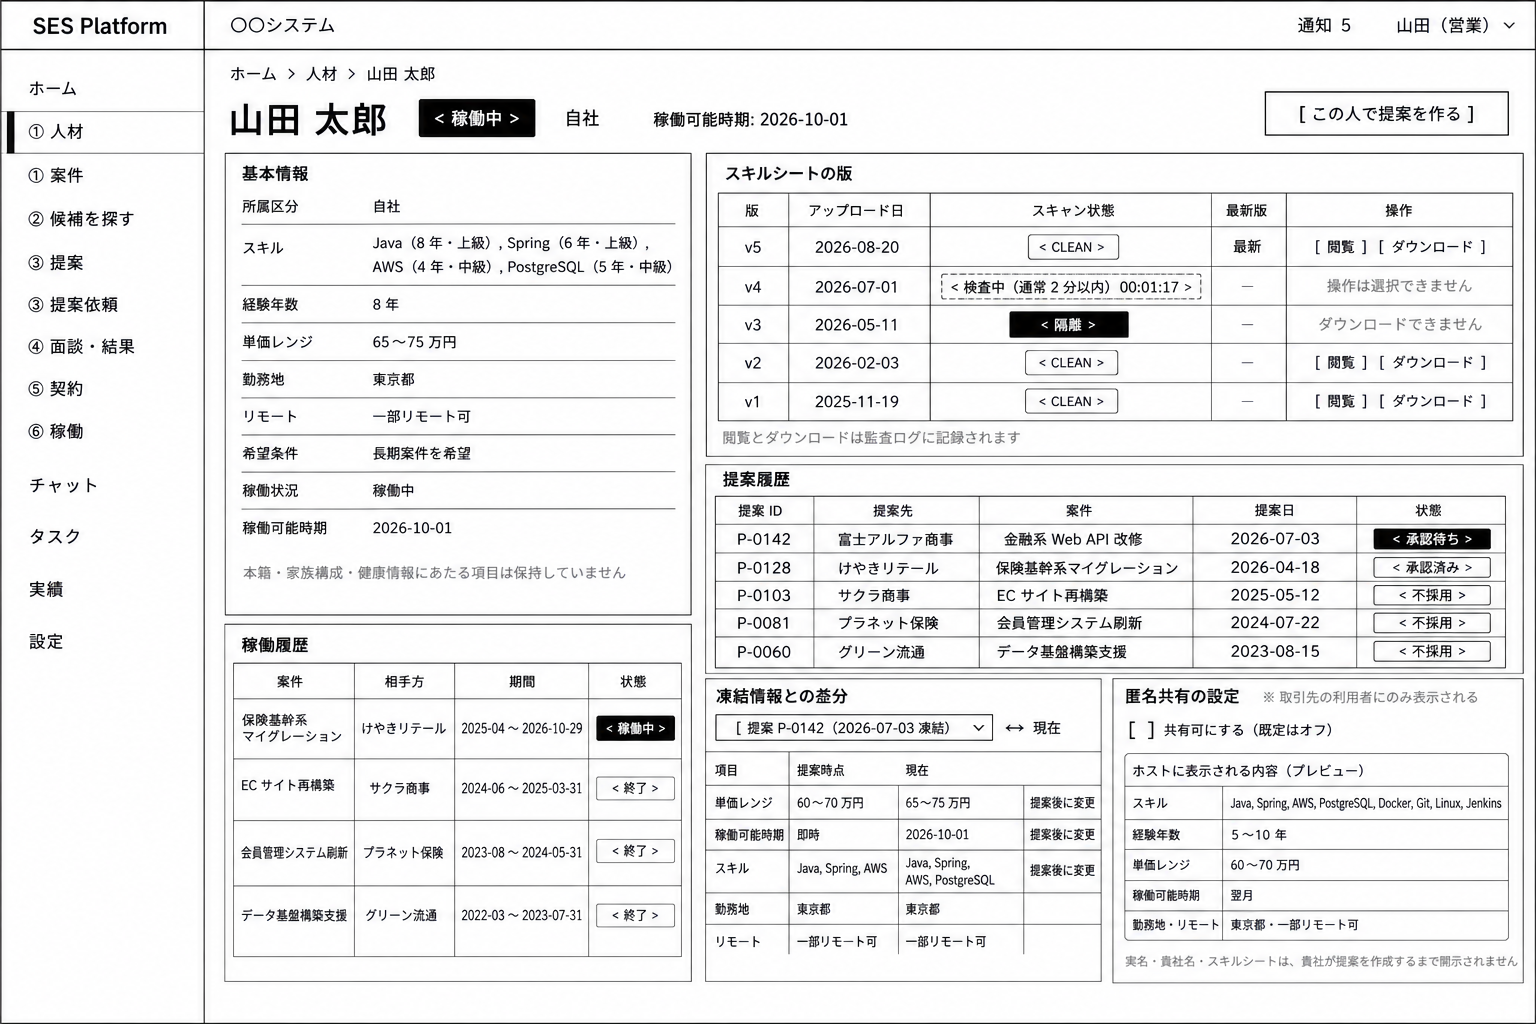
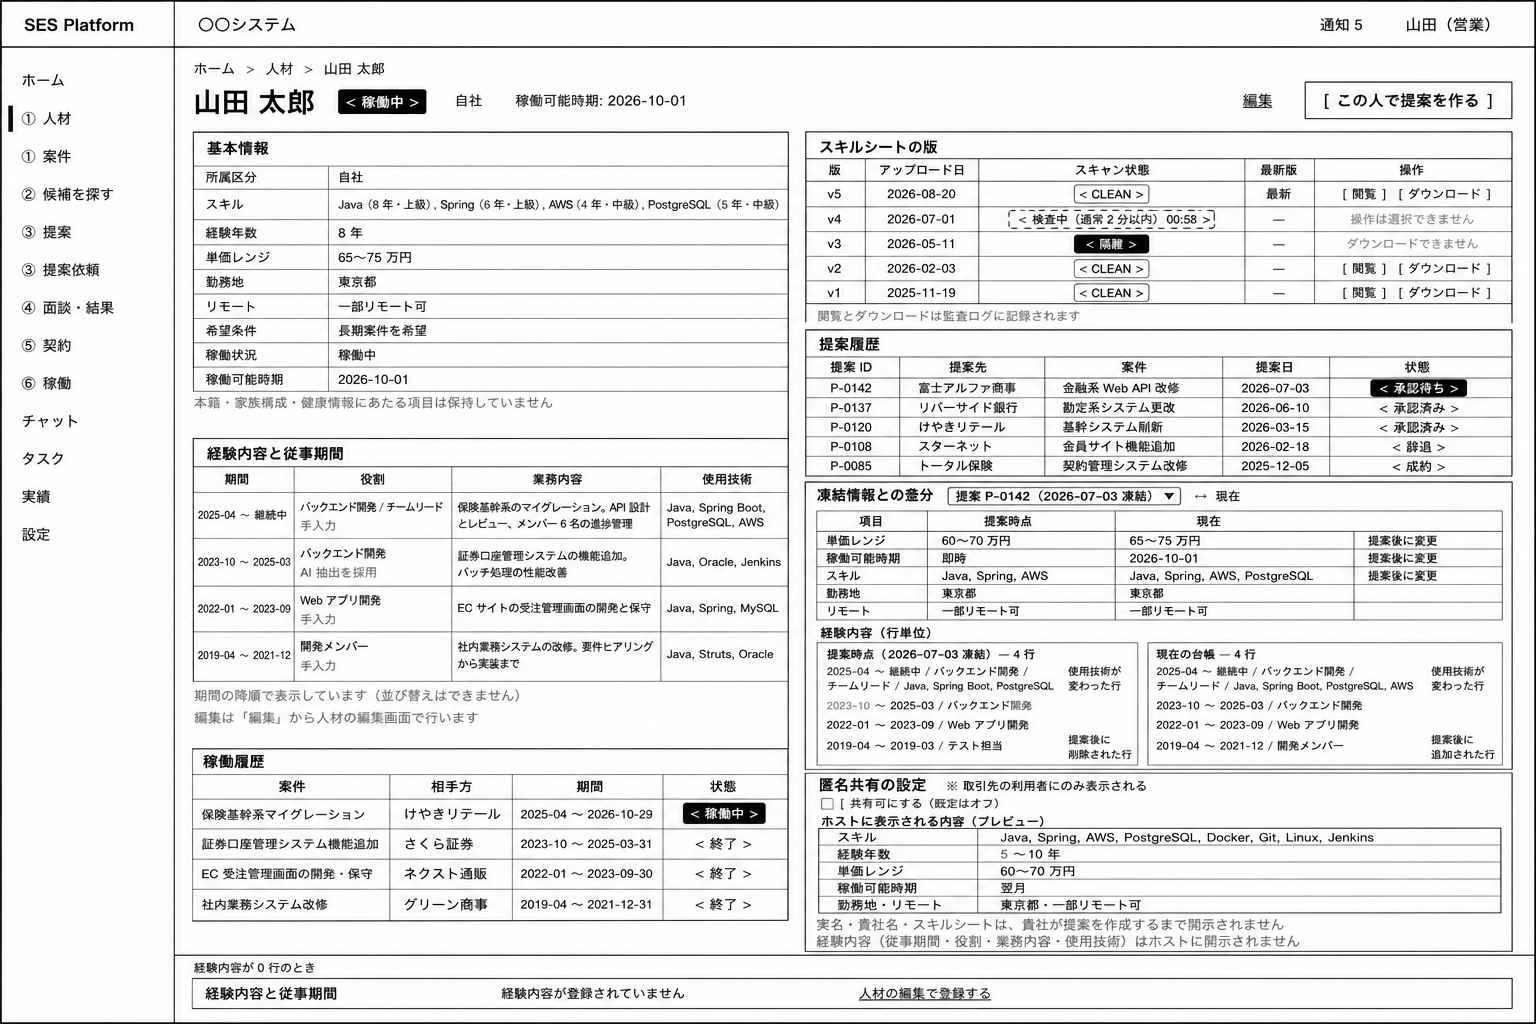
docs(wireframes): S-006 / S-007 / S-023 を EngineerCareer の新設に追随させる
docs/04 改訂 8（Issue #35 = A）で本文とずれた 3 画面の prompt.md を更新し、
その 3 枚のみ再生成した（計 3 枚。--screen 指定なしの --force は実行していない）。
新設画面は 0 件のため新規ディレクトリは作っていない。

## ずれていた内容

- S-007: セクション 3 が 3 列で、使用技術の列が無かった
- S-006: 経験内容のセクションが存在しなかった（docs/04 ではセクション 8）
- S-023: 凍結内容に経歴のテーブルが無かった

## 描かせたこと

S-007 — 5 列（期間 / 役割 / 業務内容 / 使用技術 / 操作）のインライン編集テーブル。
継続中の行、削除予定 + 元に戻す、行を追加、並べ替え規約。
🔴 0 行のストリップを別に描き、警告色・注意アイコン・必須マーク・保存抑止を
一切描かないことを指示した（0 行は正常な状態であり、異常として見せてはならない）。
役割をドロップダウンにしないこと、comingSoon 相当の注記帯を出さないことは禁止事項に格上げ。

S-006 — 基本情報の直下にセクション 8。期間の降順、列ヘッダに並び替え矢印を付けない、
編集導線はタイトル行のリンク 1 本。凍結情報との差分は行単位の左右並置。

S-023 — 凍結内容に「2026-07-03 時点の経験内容 — 4 行」の表。
「提案先に届いた内容です。台帳を更新してもこの表は変わりません。」を添え、
🔴「最新の情報に更新」相当のボタン・編集操作・現在値の混入を禁止事項として明記した。

## 🔴 S-016（匿名候補）は触っていない

経歴は匿名候補に 1 項目も出さない。S-006 の匿名共有プレビューには
「経験内容はホストに開示されません」の 1 行を入れたうえで、
経歴の行・列・件数・要約・空欄を 1 つも描かないことを禁止指示にした
（空欄の幅そのものが 6 つ目の開示項目になるため）。

## 副次的な整合

S-023 のエンジニア名を S-006 の台帳側と同一人物に揃えた。
別人だと、凍結と現在値の差分が 2 枚をまたいで読めない。
S-007 の見出しを「人材の登録」→「人材の編集」に変えた。本文が
「新規は経験内容 0 行で開き、空行を初期表示しない」と定めているため、
新規登録の見出しで 4 行埋まった絵を描くと本文と正面から矛盾する。

⚠ S-023 下部の差分ストリップ右パネル最終行にサンプル値のドリフトが 1 件ある
（説明用ストリップの技術名のみ。示すべき規律は正しく描かれている）。
課金を伴う再生成は行わなかった。

Claude-Session: https://claude.ai/code/session_01Q6UJH6vdHUsLt9eWGz7E8z

Changed region(s): [[0.0, 0.0, 1.0, 1.0], [0.0, 0.5625, 0.0625, 0.5938], [0.0, 0.625, 0.0312, 0.6562]]

diff --git a/docs/wireframes/S-007-engineer-edit/prompt.md b/docs/wireframes/S-007-engineer-edit/prompt.md
@@ -7,7 +7,7 @@
 - 対応機能 ID: F-008 / F-010
 - 対応ステージ: ① 集める
 - Tier: T3（デスクトップ主体。申し送り 10 により 1 枚）
-- 元設計書: `docs/04-ui-design.md` §4.2 `S-007` / §7.1（設定は低密度）/ §10.1
+- 元設計書: `docs/04-ui-design.md` §4.2 `S-007`（**改訂 8 = Issue #35 = A。`EngineerCareer`**）/ §7.1（設定は低密度）/ §10.1 / §10.3 の `S-007` 行 / §11-11 / `designer` 申し送り 14
 - 生成する画像: `desktop.png`
 
 ## 生成方法
@@ -22,25 +22,27 @@ node scripts/generate-wireframes.mjs --screen S-007
 You are a senior UX designer creating a low-fidelity wireframe for a Japanese B2B SaaS called "SES Platform" — a workspace that unifies the sales and staffing work of Japanese SES companies into one closed loop: collect engineers and projects, matching, proposal with a quality gate and human approval, interview and decision, contract, assignment and follow-up. A host SES company and the partner companies it invites share one tenant, and a hard information boundary keeps each partner from seeing any other partner data.
 
 Style rules:
-- Pure black and white. Light gray only for de-emphasis (placeholders, helper text). No other colors.
+- Pure black and white. Light gray only for de-emphasis (placeholders, helper text, a row that is pending deletion). No other colors.
 - Sharp-cornered rectangles everywhere. No rounded corners, no shadows, no gradients.
 - Section headings in Japanese, small and bold. At most 3 heading levels.
 - Text inputs: a Japanese label above a horizontal rule `______________`. Dropdowns `[ ラベル ▾ ]`. Buttons `[ ラベル ]`. Checkboxes `[ ]` / `[x]`.
-- Validation messages are drawn as one line of text directly under the field they belong to.
+- Validation messages are drawn as one line of plain text directly under the field they belong to.
+- Lists of same-shaped records are drawn as tables: Japanese column headers, thin rules, tight rows. Never wrap a row in a card frame.
 - All visible text is Japanese. No photos, no logos, no icons on navigation, headings or buttons.
 - This is a form screen: medium-low density, one item per row, but no large empty areas.
+- Never draw a required-field asterisk, a warning color, or a caution icon anywhere in this wireframe.
 
 Persistent UI on this screen:
 - Header bar across the full width: left = the wordmark `SES Platform` (the only place the product name is written), then the scope display `〇〇システム`; right = `通知 5` and the user menu `山田（営業）`. Do NOT draw a usage meter in the header.
 - Left sidebar, fixed width, text only, no icons: `ホーム`, `① 人材`, `① 案件`, `② 候補を探す`, `③ 提案`, `③ 提案依頼`, `④ 面談・結果`, `⑤ 契約`, `⑥ 稼働`, `チャット`, `タスク`, `実績`, `設定`. `① 人材` is the current item with a filled bar on its left edge.
-- Content area top: breadcrumb `ホーム ＞ 人材 ＞ 新規登録`, the screen title `人材の登録` as the single largest text, and exactly one primary button on the right of the title row: `[ 保存 ]`.
+- Content area top: breadcrumb `ホーム ＞ 人材 ＞ 山田 太郎 ＞ 編集`, the screen title `人材の編集` as the single largest text, and exactly one primary button on the right of the title row: `[ 保存 ]`.
 - No environment banner (this wireframe depicts the production environment).
 ```
 
 ## desktop.png プロンプト
 
 ```
-Layout: desktop browser view, landscape. Header and sidebar as in the shared prompt. The form occupies a single centred column of about 60 percent width, with a thin sticky section index on its right listing the six section names.
+Layout: desktop browser view, landscape. Header and sidebar as in the shared prompt. The form occupies a single centred column of about 62 percent width, with a thin sticky section index on its right listing the six section names.
 
 ### Section 1: `基本`
 - `氏名` ______________
@@ -53,8 +55,51 @@ IMPORTANT: 所属区分 is a read-only value, not an editable field and not a dr
   `Java / 8 / [ 上級 ▾ ] / [ 削除 ]`, `Spring / 6 / [ 上級 ▾ ] / [ 削除 ]`, `AWS / 4 / [ 中級 ▾ ] / [ 削除 ]`, `PostgreSQL / 5 / [ 中級 ▾ ] / [ 削除 ]`
 - A bordered note strip under the table: `「Java8」は辞書にありません。新語候補として起票します。採用されるまで検索には使われません。`
 
-### Section 3: `経験内容と従事期間`
-- A table of 3 rows with columns `期間` / `業務内容` / `役割` / `操作`, each row containing rules for input, plus a `[ 行を追加 ]` text link.
+### Section 3: `経験内容と従事期間` — the most important section of this wireframe
+An editable table with EXACTLY five columns in this order: `期間` / `役割` / `業務内容` / `使用技術` / `操作`.
+The table itself is the editor: every cell is an input edited in place. Do NOT draw a card frame around a row, and do NOT draw a modal dialog for editing a row.
+Column widths: `期間` narrow, `役割` narrow, `業務内容` widest, `使用技術` medium, `操作` narrowest.
+
+Row 1 (still running):
+- `期間`: two small fields stacked — `開始年月` `2025-04`, and `終了年月` drawn EMPTY with the word `継続中` printed in its place; the checkbox `[x] 継続中` directly under them
+- `役割`: a text field containing `バックエンド開発 / チームリード`
+- `業務内容`: a multi-line text area drawn as two rules containing `保険基幹系のマイグレーション。API 設計とレビュー、メンバー 6 名の進捗管理`
+- `使用技術`: the words `Java` `Spring Boot` `PostgreSQL` `AWS` listed inline, each followed by a small `×`, with a small `[ 辞書から追加 ]` control under them
+- `操作`: `[ 削除 ]`
+
+Row 2:
+- `期間`: `2023-10` and `2025-03`, checkbox `[ ] 継続中`
+- `役割`: `バックエンド開発`
+- `業務内容`: `証券口座管理システムの機能追加。バッチ処理の性能改善`
+- `使用技術`: `Java` `Oracle` `Jenkins`
+- `操作`: `[ 削除 ]`
+
+Row 3 (carries a validation message):
+- `期間`: `2022-01` and `2021-09`, and directly under the 期間 cell ONE line of plain text: `終了年月は開始年月より後の年月を入力してください`
+- `役割`: `Web アプリ開発`
+- `業務内容`: `EC サイトの受注管理画面の開発と保守`
+- `使用技術`: `Java` `Spring` `MySQL`
+- `操作`: `[ 削除 ]`
+IMPORTANT: draw this message as plain text only. No red, no warning color, no caution icon.
+
+Row 4 (deleted but not yet saved — draw the whole row in light gray):
+- `期間`: `2018-04` 〜 `2019-03`
+- `役割`: `テスト担当`
+- `業務内容`: `通信キャリアの回線管理システムの結合テスト`
+- `使用技術`: `Java` `Excel マクロ`
+- `操作`: the word `削除予定` and the text link `元に戻す` (no `[ 削除 ]` button in this row)
+
+Directly under the table, left aligned: the text link `[ 行を追加 ]`.
+Under that, three small gray helper lines, one per line, in this order:
+1. `「Spring Boot 3」は辞書にありません。新語候補として起票します。採用されるまで検索には使われません。`
+2. `編集中は入力した順のまま並びます。保存すると期間の降順に並べ替えます。`
+3. `削除は保存時に確定します。保存後に元へ戻すことはできません。`
+
+FORBIDDEN in this section — do not draw any of these:
+- Any note saying this feature is not available yet, or will become available in a later release.
+- Any text saying the section is required, and any asterisk, warning color, caution icon or badge.
+- A dropdown for `役割` (it must be a free text field with no `▾`).
+- A separate editing area for AI-extracted careers (extraction is run on another screen).
 
 ### Section 4: `稼働`
 - `稼働状況` `[ 稼働中 ▾ ]`
@@ -74,16 +119,18 @@ IMPORTANT: 所属区分 is a read-only value, not an editable field and not a dr
 ### Bottom action row (right aligned)
 - `[ 保存 ]` primary, and the text link `キャンセル`.
 
-### Two state strips drawn at the very bottom of the image, each with a small gray caption above it
-- Caption `未保存で離脱しようとしたとき`: a bordered dialog box containing `入力内容が保存されていません。このページを離れますか？` with `[ 離れる ]` and `[ 編集を続ける ]`
+### Three state strips drawn side by side across the very bottom of the image, each with a small gray caption above it
+- Caption `新規登録で開いたとき（経験内容 0 行）`: a bordered strip headed `経験内容と従事期間`, containing the table header row with the five column names and NO body rows, one plain gray line `経験内容は登録されていません`, and the text link `[ 行を追加 ]`. The `[ 保存 ]` button drawn beside it is plain and fully enabled. No warning color, no caution icon, no asterisk, no placeholder empty row.
+- Caption `未保存で離脱しようとしたとき`: a bordered dialog box containing `入力内容が保存されていません。このページを離れますか？` with `[ 離れる ]` and `[ 編集を続ける ]`, plus one gray line `経験内容の行の追加・削除も未保存の変更に含みます`
 - Caption `保存に失敗したとき`: a bordered strip `保存できませんでした。入力内容は保持しています。` with `[ 再試行 ]`
 ```
 
 ## 設計意図メモ（画像生成には使われない）
 
-- 所属パートナーを入力欄にせず読み取り専用にしたのは `F-008 AC-2`（入力できると境界が入力で決まることになる）。プロンプトでも「編集不可の値」であることを明示した。
-- 辞書に無い語は受け付けたうえで「採用されるまで検索に使われない」旨を出す（`F-010 AC-1`）。勝手に辞書を増やさない。
-- `BR-52` の範囲外（本籍・家族構成・健康情報・信条）は入力欄としても持たないため、フォームに項目自体を描いていない。
-- 未保存離脱の確認と保存失敗時の値保持は §10.1 の該当列。バリアント画像を増やさず 1 枚の下部に状態ストリップとして描いた。
-- T3 だがモバイルでは 3 ステップフォームに劣化させる（遮断しない）。画像は 1 枚。
-- 関連 UC: UC-02（台帳整備）。
+- 改訂 8（Issue #35 = A）でセクション 3 を **4 列 + 操作列**（`期間` / `役割` / `業務内容` / `使用技術` / `操作`）に直した。旧プロンプトは 3 列で `使用技術` が欠けており、`F-029`（Phase 2 のスコアが使用技術を項目として読む）と `F-008 AC-6`（行単位の凍結）の前提を絵が満たしていなかった。
+- 見出しを `人材の登録` から `人材の編集` に変えたのは、**新規フォームは経験内容 0 行で開く**（空行を初期表示しない）ためで、`新規登録` の見出しのまま 4 行埋まった絵を描くと本文と正面から矛盾する。0 行の姿は下部の状態ストリップで別に描いた。
+- 0 行を**警告色・注意アイコン・必須マーク・保存抑止のいずれでも表現しない**（`F-008 AC-5`）。スキルシート 1 枚で回している既存データを壊さないための決定であり、絵の側で「未入力 = 欠陥」に見せると意図が反転する。
+- `comingSoon` の注記帯を削除した。保存先が無い期間の暫定表示であり、`EngineerCareer` の新設で前提が消えた。残すと「入力できるのに、できないと書いてある」画面になる。
+- 削除行を light gray + `削除予定` + `元に戻す` で描いたのは、**保存前に限り取り消せる / 保存後の復元は持たない**（監査ログの「削除」が確定した事実かどうかを読めなくしないため）を 1 枚で示すため。
+- 並べ替えの規約（編集中は入力順、保存時に期間の降順）をヘルパー行に出した。入力の途中で行が飛ぶと打ち間違えるので、絵の側でも「今は動かない」ことを明示する。
+- 関連 UC: UC-02（台帳整備）。Phase 2 の抽出結果の採否は `S-008` 側であり、本画面に別の編集経路を作らない。

diff --git a/docs/wireframes/S-023-proposal-detail/prompt.md b/docs/wireframes/S-023-proposal-detail/prompt.md
@@ -4,10 +4,10 @@
 - 画面 ID: S-023
 - 画面名: 提案詳細と履歴
 - 平面: 主平面
-- 対応機能 ID: F-024 / F-025 / F-020 / F-037
+- 対応機能 ID: F-024 / F-025 / F-020 / F-037 / F-019
 - 対応ステージ: ③④
 - Tier: T2（申し送り 10 により 1 枚）
-- 元設計書: `docs/04-ui-design.md` §4.4 `S-023` / §5-6 / §9.1（由来の 2 層目）/ §10.1
+- 元設計書: `docs/04-ui-design.md` §4.4 `S-023`（**改訂 8 = Issue #35 = A。凍結された `EngineerCareer`**）/ §5-6 / §9.1（由来の 2 層目）/ §10.1 / §10.3 の `S-023` 行 / §11-11 / `designer` 申し送り 14
 - 生成する画像: `desktop.png`
 
 ## 生成方法
@@ -46,7 +46,7 @@ Persistent UI on this screen:
 Layout: desktop browser view, landscape. Header and sidebar as in the shared prompt. Main content is a 2-column split: left about 45 percent (heading and timeline), right about 55 percent (frozen content, gate history, result).
 
 ### Section 1: `見出し` — a bordered band across the full width under the title row
-`< 送信済み >` outline ・ `提案先 富士アルファ商事 / 大村 部長` ・ `エンジニア 佐藤 花子（自社）` ・ `案件 金融系 Web API 改修` ・ `単価 70 万円`
+`< 送信済み >` outline ・ `提案先 富士アルファ商事 / 大村 部長` ・ `エンジニア 山田 太郎（自社）` ・ `案件 金融系 Web API 改修` ・ `単価 70 万円`
 
 ## Left column
 
@@ -70,7 +70,14 @@ Each entry: timestamp on the left, then 主体, then the event, then an optional
 - Beside that link, a small expanded panel with the small gray caption `「この内容の由来」を開いたとき`, containing: `生成した担当` `提案文の下書き担当` / `プロンプト版` `v3` / `モデル` `claude-sonnet-5` / `生成日時` `2026-07-03 10:24`
 - `件名` `【ご提案】Java / Spring エンジニアのご紹介` and about 8 lines of body text
 - `添付` an empty rectangle with a diagonal cross labelled `skillsheet_v5.pdf`
-- The text link `現在の台帳との差分を見る`
+- A sub-table headed exactly `2026-07-03 時点の経験内容 — 4 行`, with exactly four columns in this order: `期間` / `役割` / `業務内容` / `使用技術`. No operations column, no sort arrows on the headers, no checkbox. Rows in 期間 descending order:
+  1. `2025-04 〜 継続中` / `バックエンド開発 / チームリード` / `保険基幹系のマイグレーション。API 設計とレビュー、メンバー 6 名の進捗管理` / `Java, Spring Boot, PostgreSQL`
+  2. `2023-10 〜 2025-03` / `バックエンド開発` / `証券口座管理システムの機能追加。バッチ処理の性能改善` / `Java, Oracle, Jenkins`
+  3. `2022-01 〜 2023-09` / `Web アプリ開発` / `EC サイトの受注管理画面の開発と保守` / `Java, Spring, MySQL`
+  4. `2018-04 〜 2019-03` / `テスト担当` / `通信キャリアの回線管理システムの結合テスト` / `Java, Excel マクロ`
+  Under the sub-table, one small gray line: `提案先に届いた内容です。台帳を更新してもこの表は変わりません。`
+  FORBIDDEN in and around this sub-table: do NOT draw a `最新の情報に更新` button or anything like it; do NOT draw an edit or delete control; do NOT add rows taken from the current ledger into this same table; do NOT mark any row as newly added or changed inside this table.
+- The text link `現在の台帳との差分を見る` followed by one small gray line: `差分は凍結側と現在側を左右に並べて表示します（同じ表に混ぜません）`
 
 ### Section 4: `ゲート結果の履歴` — table, 3 body rows (not overwritten)
 Columns `実行日時` / `PII 層` / `商流層` / `整合層` / `指摘`
@@ -87,12 +94,18 @@ A gray line: `状態が「決定」になると契約の作成導線が表示さ
 
 ### Section 7: `チャット` — a compact list of 3 recent messages with the counterpart company and time.
 
-### One state strip at the very bottom with a small gray caption above it
+### Two state strips at the very bottom, drawn side by side, each with a small gray caption above it
 - Caption `取引先が同じ画面を開いたとき`: a narrow band showing the same heading, timeline and frozen content, but with NO 重複提案 section at all, and a gray line `他社が作成した提案は表示されません`.
+- Caption `「現在の台帳との差分を見る」を開いたとき`: a narrow band containing TWO panels placed side by side. Left panel headed `提案時点（2026-07-03 凍結）— 4 行` with four short lines `2025-04 〜 継続中 / Java, Spring Boot, PostgreSQL`, `2023-10 〜 2025-03`, `2022-01 〜 2023-09`, `2018-04 〜 2019-03`. Right panel headed `現在の台帳 — 4 行` with `2025-04 〜 継続中 / Java, Spring Boot, PostgreSQL, AWS`, `2023-10 〜 2025-03`, `2022-01 〜 2023-09`, `2019-04 〜 2021-12`. Plain-text notes: `使用技術が変わった行` beside the first line of both panels, `提案後に削除された行` beside the last line of the LEFT panel, `提案後に追加された行` beside the last line of the RIGHT panel. The two panels stay separate; do NOT merge them into one list.
 ```
 
 ## 設計意図メモ（画像生成には使われない）
 
+- 改訂 8（Issue #35 = A）で凍結内容に `2026-07-03 時点の経験内容 — 4 行` の 4 列テーブルを足した。**見出しに凍結日時を必ず添える**のは、`S-006` セクション 8 と同じ体裁のため、日時が無いと台帳の現在値と取り違えるから（`F-019 AC-5`）。
+- **台帳の現在値を同じ表に混ぜない。** 混ぜると「どの行が提案先に届いた内容か」が読めなくなり、凍結の意味が失われる（商流上、届いた内容が唯一の事実）。差分は左右並置の別ブロックに逃がした（§5-6）。
+- 「最新の情報に更新する」に相当するボタンを描かない。更新したい場合は新しい提案を起こす、が本文の規約である。
+- エンジニア名を `S-006` と同じ `山田 太郎` に揃えた。凍結側（本画面）と台帳側（`S-006`）の 2 枚を並べて読んだときに、行の追加・削除・変更が同一人物の話として繋がるようにするため。
+- 経歴は `S-016`（匿名候補）には 1 項目も出さない。**同じ情報が、提案では最も見せたく、匿名候補では最も見せてはならない**（§11-11）。本画面が「全部見せる側」の端であり、`S-016` は「列そのものを作らない側」の端である。
 - 自動承認を `システム（全層 PASS のため）` と表示し、監査ログへの導線を添える（`F-021 AC-5`）。誰が承認したかを後から説明できる状態にする。
 - ゲート結果は再実行で上書きせず履歴として残す（`F-020 AC-7`）。テーブルに 3 回分の実行を並べた。
 - AI 由来は常時 1 行（`AI 下書き（編集済み）`）、明示操作で 1 段掘るとロールの業務上の呼び名・プロンプト版・モデル・生成日時に到達する（§9.1 の 2 層目）。
